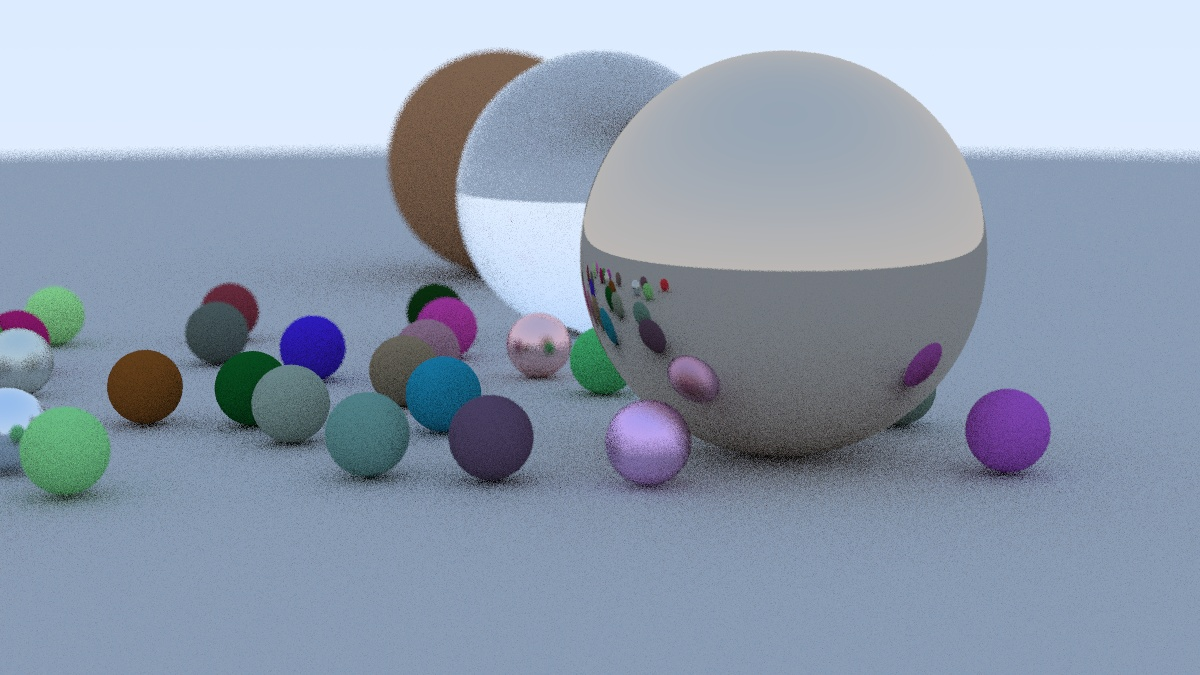
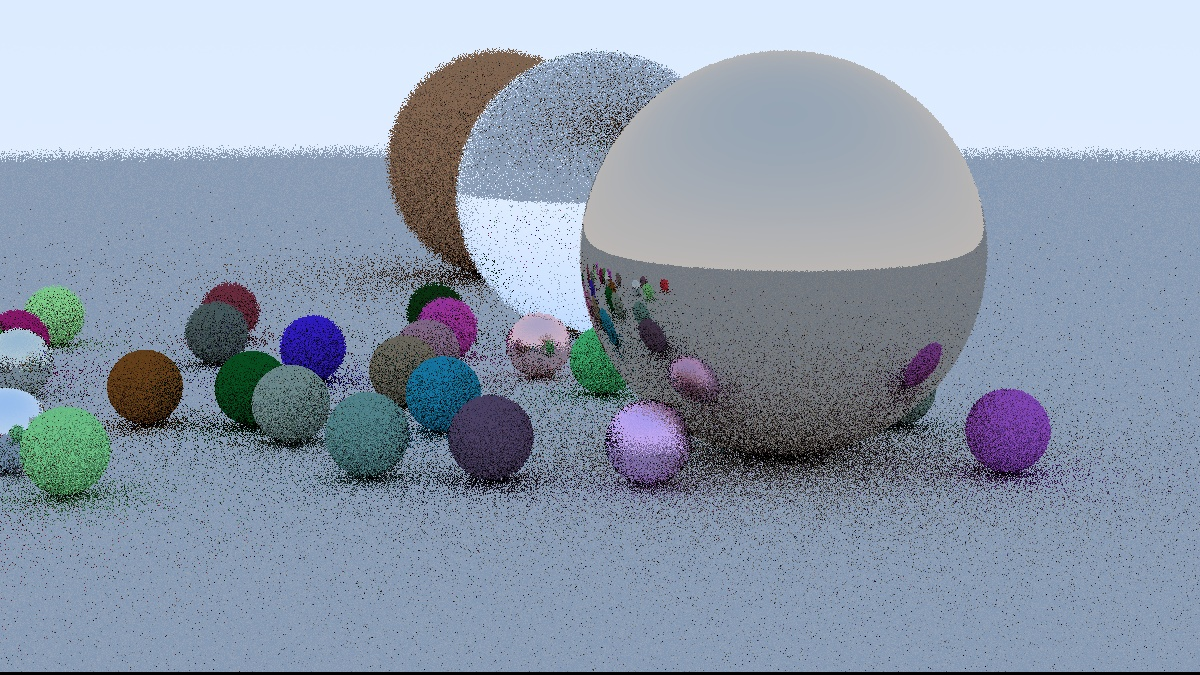
Multi threaded scene rendering with CPU

Changed region(s): [[0.0, 0.0622, 1.0, 0.84], [0.0, 0.9956, 1.0, 1.0], [0.8017, 0.2178, 1.0, 0.2489]]

diff --git a/RayTracing/camera.h b/RayTracing/camera.h
@@ -2,9 +2,13 @@
 
 using color = vec3;
 #include "material.h"
+#include <thread>
 
 class camera {
 public:
+	camera(const camera&) = delete;
+	camera& operator=(const camera&) = delete;
+
 	double aspect_ratio;
 	int image_width;
 	int image_height;   // Rendered image height
@@ -25,11 +29,11 @@ public:
 		initialize();
 		const int height = image.rows;
 		const int width = image.cols;
-		vec3** imageArray = new vec3*[height];
+		color** imageArray = new color*[height];
 		for (int i = 0; i < height; i++) {
-			imageArray[i] = new vec3[width];
+			imageArray[i] = new color[width];
 			for (int j = 0; j < width; j++) {
-				imageArray[i][j] = vec3(0, 0, 0);
+				imageArray[i][j] = color(0, 0, 0);
 			}
 		}
 
@@ -52,13 +56,65 @@ public:
 		}
 	}
 
+	void threadedRender(cv::Mat& image, const hittable& world, camera& cam) {
+		initialize();
+		const int height = image.rows;
+		const int width = image.cols;
+
+		imageArray = new color*[height];
+		for (int i = 0; i < height; i++) {
+			imageArray[i] = new color[width];
+			for (int j = 0; j < width; j++) {
+				imageArray[i][j] = color(0, 0, 0);
+			}
+		}
+
+		int totalRayCount = samples_per_pixel * image_height * image_width;
+		int numThreads = std::thread::hardware_concurrency();
+		int rowsPerThread = image_height / numThreads;
+
+		std::vector<std::thread> threads;
+
+		
+			
+		for (int t = 0; t < numThreads; t++) {
+			threads.emplace_back(&camera::threadedHelper, &cam,std::ref(image), std::ref(world), t * rowsPerThread, (t + 1) * rowsPerThread);
+		}
+		for (auto& thread : threads) {
+			thread.join();
+		}
+		
+		
+	}
+
+	void threadedHelper(cv::Mat& image, const hittable& world, int startRow, int endRow) {
+		for (int sample = 0; sample < samples_per_pixel; sample++) {
+			for (int j = startRow; j < endRow; j++) {
+				for (int i = 0; i < image_width; i++) {
+					ray r = get_ray(i, j);
+					color newColor = ray_color(r, maxRayDepth, world);
+
+					//imageArrayMutex.lock();
+					imageArray[j][i] += newColor;
+
+
+					writeImage(image, j, i, imageArray[j][i] * (1.0 / (sample + 1)));
+					// imageArrayMutex.unlock();
+				}
+			}
+		}
+	}
+
 
 private:
+	color** imageArray;
 	double pixel_samples_scale;
     point3 center;         // Camera center
     point3 pixel00_loc;    // Location of pixel 0, 0
     vec3   pixel_delta_u;  // Offset to pixel to the right
     vec3   pixel_delta_v;  // Offset to pixel below
+
+	std::mutex imageArrayMutex;
 
 	vec3 u, v, w;
 

diff --git a/RayTracing/RayTracing.cpp b/RayTracing/RayTracing.cpp
@@ -1,6 +1,9 @@
 #include <opencv2/opencv.hpp>
 
 #include <cuda_runtime.h>
+#include <device_launch_parameters.h>
+
+#include "computeShader.cuh"
 
 #include "utils.h"
 
@@ -21,7 +24,7 @@ int main()
     double aspect_ratio = 16.0 / 9.0;
     int image_width = 1200;
 
-    camera cam = camera();
+    camera cam;
     cam.aspect_ratio = aspect_ratio;
     cam.image_width = image_width;
 
@@ -74,8 +77,8 @@ int main()
     // Camera
     cv::Mat image(image_height, image_width, CV_8UC3, cv::Scalar(0, 0, 0));
 	
-    cam.samples_per_pixel = 10;
-    cam.maxRayDepth = 50;
+    cam.samples_per_pixel = 1;
+    cam.maxRayDepth = 10;
 
     cam.vfov = 20;
     cam.lookfrom = point3(13, 2, 3);
@@ -85,7 +88,8 @@ int main()
     cam.defocus_angle = 0.6;
     cam.focus_dist = 10.0;
 
-    cam.render(image, world);
+    // cam.render(image, world);
+    cam.threadedRender(image, world, cam);
 
 	cv::imshow("image", image);
 	cv::waitKey(0);
